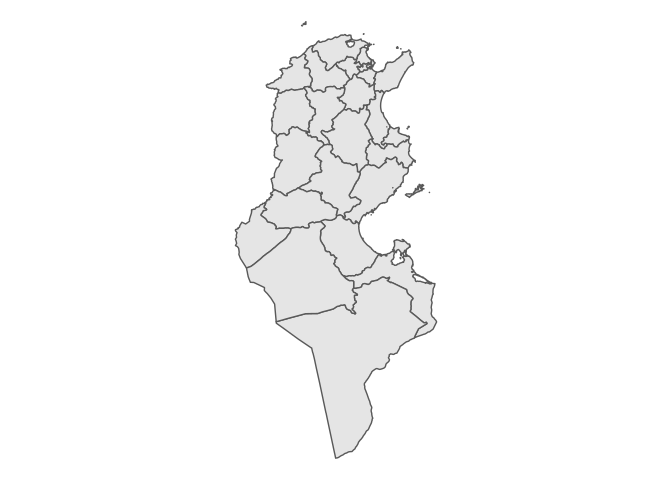
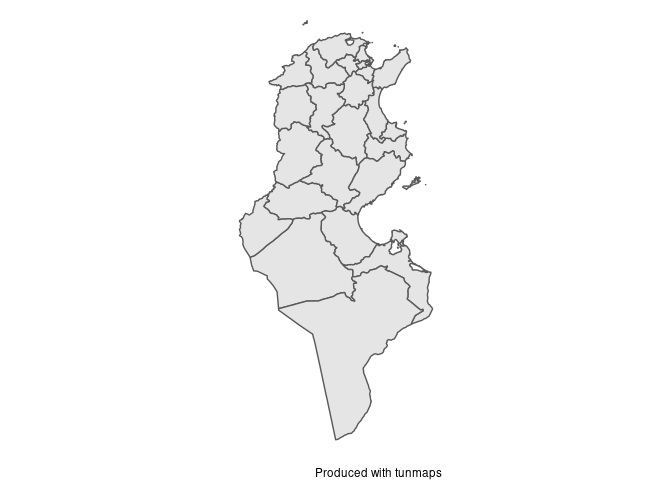
Include references resources in the README file

Changed region(s): [[0.3438, 0.0625, 0.6562, 1.0]]

diff --git a/README.md b/README.md
@@ -30,29 +30,19 @@ plot_governorates()
 
 <img src="man/figures/README-example-1.png" width="100%" />
 
-What is special about using `README.Rmd` instead of just `README.md`?
-You can include R chunks like so:
-
 ``` r
-summary(cars)
-#>      speed           dist       
-#>  Min.   : 4.0   Min.   :  2.00  
-#>  1st Qu.:12.0   1st Qu.: 26.00  
-#>  Median :15.0   Median : 36.00  
-#>  Mean   :15.4   Mean   : 42.98  
-#>  3rd Qu.:19.0   3rd Qu.: 56.00  
-#>  Max.   :25.0   Max.   :120.00
+library(tunmaps)
+plot_municipalities()
 ```
 
-You’ll still need to render `README.Rmd` regularly, to keep `README.md`
-up-to-date. `devtools::build_readme()` is handy for this. You could also
-use GitHub Actions to re-render `README.Rmd` every time you push. An
-example workflow can be found here:
-<https://github.com/r-lib/actions/tree/v1/examples>.
+<img src="man/figures/README-example_muns-1.png" width="100%" />
 
-You can also embed plots, for example:
+## Reference resources
 
-<img src="man/figures/README-pressure-1.png" width="100%" />
+-   [OECD](https://www.oecd-ilibrary.org/sites/8b6103e3-fr/index.html?itemId=/content/component/8b6103e3-fr)
 
-In that case, don’t forget to commit and push the resulting figure
-files, so they display on GitHub and CRAN.
+-   [INS](http://ins.tn/sites/default/files/publication/pdf/code%20geographique%202012_0.pdf)
+
+-   [CGDR](http://cgdr.nat.tn/upload/files/15.pdf)
+
+-   <https://dickoa.gitlab.io/rgeoboundaries/>
